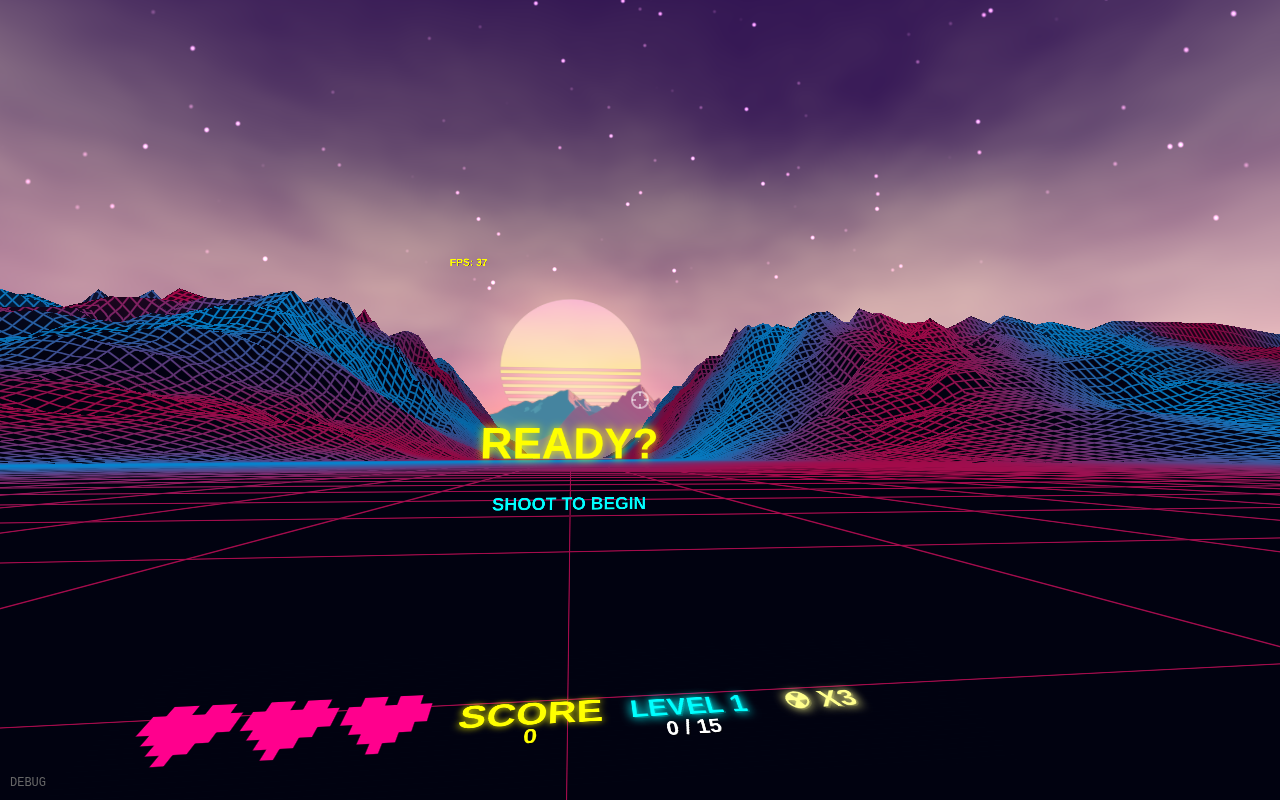
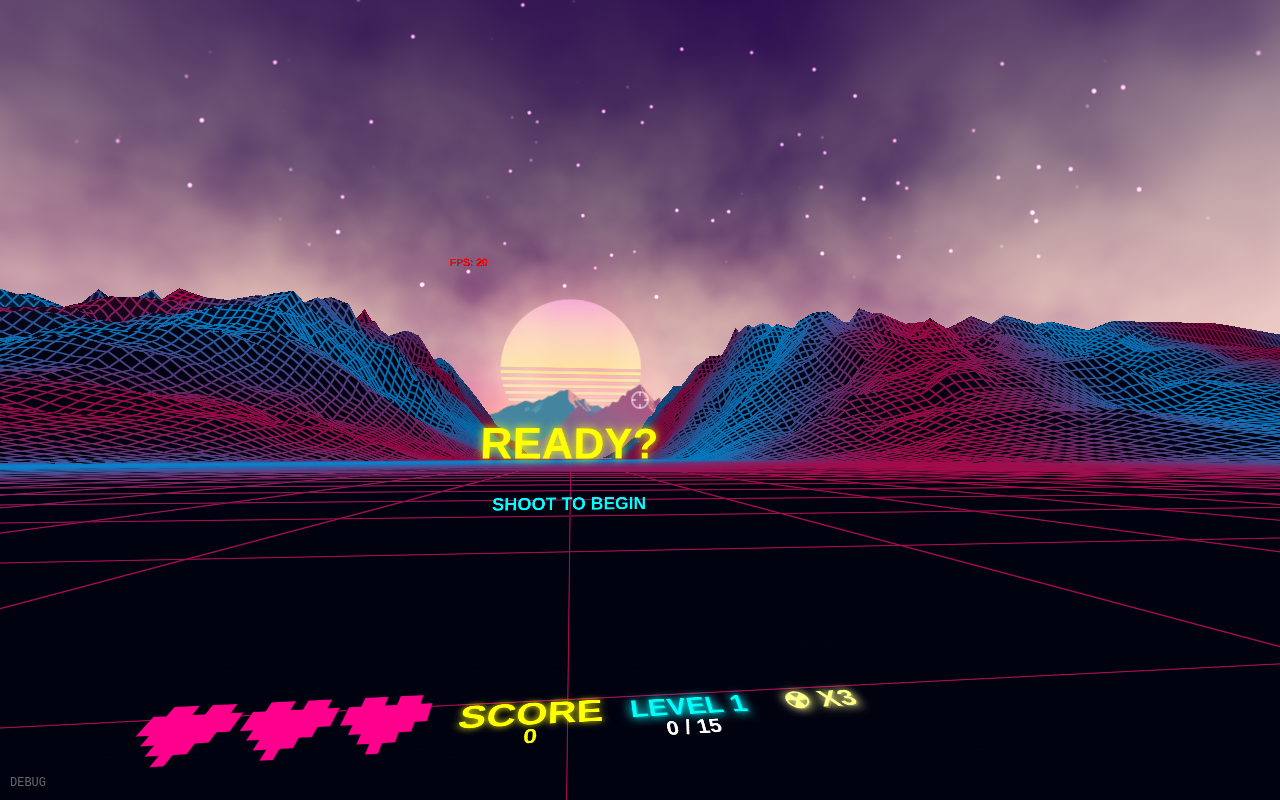
fix: 10-bug batch - version bump, enemy explosions, seeker facing, hellscape Z-fix, lava river, cloud seam, desert light, null guards

diff --git a/biomes/hellscape-lava.js b/biomes/hellscape-lava.js
@@ -98,9 +98,10 @@ varying vec3 vPosition; varying float vElevation; uniform float uTime;`);
 
   const terrain = new THREE.Mesh(geometry, material);
   terrain.receiveShadow = true;
+  terrain.frustumCulled = false; // Prevent disappearing when looking down
   terrain.position.y = floorY;
   terrain.position.x = -10.0;  // Shift terrain left so player spawns on riverbank (not riverbed)
-  terrain.position.z = 0.0;  // Player on flat valley floor
+  terrain.position.z = -50.0;  // Shift forward so content is in front of player (negative Z)
   group.add(terrain);
 
   // ========================================
@@ -109,6 +110,7 @@ varying vec3 vPosition; varying float vElevation; uniform float uTime;`);
   const riverWidth = 12;
   const riverLength = 200;
   const riverGeo = new THREE.PlaneGeometry(riverWidth, riverLength, 32, 64);
+  riverGeo.frustumCulled = false; // Prevent culling before mesh creation
   riverGeo.rotateX(-Math.PI / 2);
 
   // Curve the plane to follow the river path
@@ -116,9 +118,9 @@ varying vec3 vPosition; varying float vElevation; uniform float uTime;`);
   for (let i = 0; i < riverPositions.count; i++) {
     const localX = riverPositions.getX(i);
     const localZ = riverPositions.getZ(i);
-    // River follows sin(z * 0.03) * 15 + 10
+    // River follows sin(z * 0.03) * 15 - 10 (matches terrain offset of -10)
     const worldZ = localZ;
-    const riverCenterX = Math.sin(worldZ * 0.03) * 15.0 + 10.0;
+    const riverCenterX = Math.sin(worldZ * 0.03) * 15.0 - 10.0;
     riverPositions.setX(i, localX + riverCenterX);
   }
 
@@ -173,13 +175,15 @@ varying vec3 vPosition; varying float vElevation; uniform float uTime;`);
 
   const lavaRiver = new THREE.Mesh(riverGeo, lavaRiverMat);
   lavaRiver.position.y = floorY + 0.1; // Just above the river bed
+  lavaRiver.position.z = -50.0; // Match terrain Z offset
+  lavaRiver.frustumCulled = false; // Prevent disappearing when looking down
   group.add(lavaRiver);
 
   // Add subtle red point lights along the river for glow effect
   const lavaLights = [];
   for (let i = 0; i < 3; i++) {
-    const lz = (i - 1) * 60;
-    const lx = Math.sin(lz * 0.03) * 15.0 + 10.0;
+    const lz = (i - 1) * 60 - 50; // Shift to negative Z range
+    const lx = Math.sin(lz * 0.03) * 15.0 - 10.0; // Match terrain world-space river center
     const lavaLight = new THREE.PointLight(0xff3300, 2.0, 35);
     lavaLight.position.set(lx, floorY + 3, lz);
     group.add(lavaLight);
@@ -221,7 +225,7 @@ varying vec3 vPosition; varying float vElevation; uniform float uTime;`);
         }
       });
       // Base scale correction for Blender export (models often export large)
-      model.scale.setScalar(0.05);  // Reduced from 0.5 - GLB models are very large
+      model.scale.setScalar(0.015);  // Reduced from 0.03 - trees were still too big (~50% smaller)
       model.updateMatrixWorld(true);
 
       for (let i = 0; i < count; i++) {
@@ -238,12 +242,12 @@ varying vec3 vPosition; varying float vElevation; uniform float uTime;`);
             // 1-2 behind for VR folks who turn around
             z = Math.abs((Math.random() - 0.5) * 60);
           }
-          riverX = Math.sin(z * 0.03) * 15.0;
+          riverX = Math.sin(z * 0.03) * 15.0 - 10.0; // Match terrain world-space river center
           distToRiver = Math.abs(x - riverX);
           attempts++;
         } while ((distToRiver < 8 || (x * x + z * z < 225)) && attempts < 30);  // 225 = 15^2 clearance
 
-        const scale = 1.0 + Math.random() * 0.8; // 1.0x to 1.8x (on top of base 0.5x)
+        const scale = 0.5 + Math.random() * 0.9; // 0.5x to 1.4x (on top of base 0.015x = 0.0075x to 0.021x effective)
         clone.position.set(x, floorY - 0.3, z); // Bury roots slightly below ground
         clone.rotation.set(
           (Math.random() - 0.5) * 0.2, // slight X tilt
@@ -343,8 +347,8 @@ varying vec3 vPosition; varying float vElevation; uniform float uTime;`);
 
   const initSpark = (idx) => {
     const i3 = idx * 3;
-    const z = (Math.random() - 0.5) * 100;
-    const riverX = Math.sin(z * 0.03) * 15.0 + 10.0;  // Account for terrain X shift
+    const z = (Math.random() - 0.5) * 100 - 50; // Bias toward negative Z (in front of player)
+    const riverX = Math.sin(z * 0.03) * 15.0 - 10.0;  // Match terrain world-space river center (sin - terrain.x = sin*15 - 10)
     sparkPositions[i3] = riverX + (Math.random() - 0.5) * 4;
     sparkPositions[i3 + 1] = floorY - 0.5 + Math.random() * 0.5;  // Account for terrain Y offset
     sparkPositions[i3 + 2] = z;
@@ -385,7 +389,7 @@ varying vec3 vPosition; varying float vElevation; uniform float uTime;`);
     const i3 = i * 3;
     ashPositions[i3] = (Math.random() - 0.5) * 80;
     ashPositions[i3 + 1] = 1 + Math.random() * 10;
-    ashPositions[i3 + 2] = (Math.random() - 0.5) * 80;
+    ashPositions[i3 + 2] = (Math.random() - 0.5) * 80 - 50; // Shift to negative Z range
     ashVelocities[i3] = (Math.random() - 0.5) * 0.02;
     ashVelocities[i3 + 1] = 0.01 + Math.random() * 0.015;
     ashVelocities[i3 + 2] = (Math.random() - 0.5) * 0.02;
@@ -413,8 +417,9 @@ varying vec3 vPosition; varying float vElevation; uniform float uTime;`);
     const particleCount = 100;
     // Spawn from mountainsides (outside valleyWidth), accounting for terrain X shift
     const side = Math.random() > 0.5 ? 1 : -1;
-    const x = side * (valleyWidth + 5 + Math.random() * 20) + 10.0;  // Account for terrain X shift
-    const z = -Math.abs((Math.random() - 0.5) * 80);  // Force negative Z (in front)
+    // Mountainsides in group space (terrain.position.x = -10 shifts terrain)
+    const x = side * (valleyWidth + 5 + Math.random() * 20) - 10.0;
+    const z = -50 - Math.abs((Math.random() - 0.5) * 80);  // Negative Z, offset by terrain Z shift
     const baseY = floorY + 5;
 
     for (let i = 0; i < particleCount; i++) {
@@ -717,8 +722,8 @@ varying vec3 vPosition; varying float vElevation; uniform float uTime;`);
   };
 
   // Hellscape floor HUD height: group.position.y = 0.05
-  // Shifted +Z by 130 so corridor is in front of player
-  group.position.set(26.599, 0.05, 129.514);
+  // Shifted -Z so corridor is in front of player (player looks down -Z)
+  group.position.set(26.599, 0.05, -130.0);
   group.rotation.y = 0.248; // yaw: 14.21°
 }
 

diff --git a/biomes/synthwave-valley.js b/biomes/synthwave-valley.js
@@ -225,31 +225,37 @@ export function buildSynthwaveValleyScene(group, deps) {
     uniform vec3 uSkyColor;
     uniform vec3 uHorizonColor;
 
-    // Hash and noise functions for FBM
-    vec2 hash2(vec2 p) {
-      p = vec2(dot(p, vec2(127.1, 311.7)), dot(p, vec2(269.5, 183.3)));
+    // 3D hash and noise for seamless spherical cloud sampling
+    vec3 hash3(vec3 p) {
+      p = vec3(dot(p, vec3(127.1, 311.7, 74.7)),
+               dot(p, vec3(269.5, 183.3, 246.1)),
+               dot(p, vec3(113.5, 271.9, 124.6)));
       return -1.0 + 2.0 * fract(sin(p) * 43758.5453123);
     }
 
-    float noise(vec2 p) {
-      vec2 i = floor(p);
-      vec2 f = fract(p);
-      vec2 u = f * f * (3.0 - 2.0 * f);
+    float noise3D(vec3 p) {
+      vec3 i = floor(p);
+      vec3 f = fract(p);
+      vec3 u = f * f * (3.0 - 2.0 * f);
       return mix(
-        mix(dot(hash2(i + vec2(0.0, 0.0)), f - vec2(0.0, 0.0)),
-            dot(hash2(i + vec2(1.0, 0.0)), f - vec2(1.0, 0.0)), u.x),
-        mix(dot(hash2(i + vec2(0.0, 1.0)), f - vec2(0.0, 1.0)),
-            dot(hash2(i + vec2(1.0, 1.0)), f - vec2(1.0, 1.0)), u.x),
-        u.y
+        mix(mix(dot(hash3(i), f),
+                dot(hash3(i + vec3(1,0,0)), f - vec3(1,0,0)), u.x),
+            mix(dot(hash3(i + vec3(0,1,0)), f - vec3(0,1,0)),
+                dot(hash3(i + vec3(1,1,0)), f - vec3(1,1,0)), u.x), u.y),
+        mix(mix(dot(hash3(i + vec3(0,0,1)), f - vec3(0,0,1)),
+                dot(hash3(i + vec3(1,0,1)), f - vec3(1,0,1)), u.x),
+            mix(dot(hash3(i + vec3(0,1,1)), f - vec3(0,1,1)),
+                dot(hash3(i + vec3(1,1,1)), f - vec3(1,1,1)), u.x), u.y),
+        u.z
       );
     }
 
-    // 4-layer FBM (cheap, no raymarching)
-    float fbm(vec2 p) {
+    // 4-layer FBM with 3D noise (seamless on sphere)
+    float fbm3(vec3 p) {
       float value = 0.0;
       float amp = 0.5;
       for (int i = 0; i < 4; i++) {
-        value += amp * noise(p);
+        value += amp * noise3D(p);
         p *= 2.0;
         amp *= 0.5;
       }
@@ -257,22 +263,18 @@ export function buildSynthwaveValleyScene(group, deps) {
     }
 
     void main() {
-      // Spherical to lat/lon for cloud sampling
-      vec3 n = normalize(vWorldPos);
-      // FIX: Use proper spherical coordinates relative to dome center
-      // The dome is centered at (0, 0, -700), so offset the position
+      // Sample cloud noise directly on sphere normal (3D) - no seam possible
       vec3 relPos = vWorldPos - vec3(0.0, 0.0, -700.0);
-      n = normalize(relPos);
+      vec3 n = normalize(relPos);
       
       float lat = asin(n.y);  // -PI/2 to PI/2
-      float lon = atan(n.z, n.x);
 
-      // Very slow drift animation
-      vec2 cloudUV = vec2(lon * 0.8, lat * 1.5) + vec2(uTime * 0.008, 0.0);
+      // 3D noise using sphere direction directly - inherently seamless
+      vec3 cloudP = n * 2.0 + vec3(uTime * 0.008, 0.0, 0.0);
 
       // Layered FBM noise for cloud density
-      float n1 = fbm(cloudUV * 1.0);
-      float n2 = fbm(cloudUV * 2.5 + 10.0);
+      float n1 = fbm3(cloudP);
+      float n2 = fbm3(cloudP * 2.5 + vec3(10.0, 5.0, 3.0));
       float density = n1 * 0.6 + n2 * 0.4;
 
       // FIX: FBM returns [-1, 1], remap to [0, 1] so smoothstep works correctly

diff --git a/biomes/desert-night.js b/biomes/desert-night.js
@@ -20,7 +20,7 @@ export function buildDesertNightScene(group, deps) {
   group.add(moonLight);
 
   // Point light for long moon-like shadows from cacti
-  const shadowLight = new THREE.PointLight(0xd4e5f7, 1.5, 100);
+  const shadowLight = new THREE.PointLight(0xd4e5f7, 4.0, 100);
   shadowLight.position.set(-45, 35, -60); // Same as moon position
   shadowLight.castShadow = true;
   shadowLight.shadow.mapSize.width = 1024;
@@ -38,7 +38,7 @@ export function buildDesertNightScene(group, deps) {
   group.add(hemiLight);
 
   // Front-fill light so cacti in front of player are visible as green
-  const frontFillLight = new THREE.PointLight(0xd4e5f7, 1.0, 40);
+  const frontFillLight = new THREE.PointLight(0xd4e5f7, 5.0, 50);
   frontFillLight.position.set(0, 8, -15);
   group.add(frontFillLight);
 

diff --git a/main.js b/main.js
@@ -2108,7 +2108,9 @@ function applyEnvironmentFade(fade) {
 
   if (scene && currentTheme) {
     const bg = new THREE.Color(currentTheme.skyColor).lerp(mixColor, environmentFade);
-    scene.background.copy(bg);
+    if (scene.background && scene.background.copy) {
+      scene.background.copy(bg);
+    }
   }
 
   environmentFadeTargets.forEach((material) => {
@@ -7484,6 +7486,10 @@ function completeLevel() {
   const remaining = getEnemies();
   for (let i = remaining.length - 1; i >= 0; i--) {
     if (remaining[i] && remaining[i].hp > 0) {
+      // Spawn visual explosion before destroying
+      if (remaining[i].mesh && remaining[i].mesh.position) {
+        spawnExplosionVisual(remaining[i].mesh.position, 0.5);
+      }
       destroyEnemy(i, false, false);
     }
   }

diff --git a/index.html b/index.html
@@ -249,7 +249,7 @@
   <script type="module" src="main.js"></script>
   <script>
     (function() {
-      const GAME_VERSION = 'v2026.04.03.0004';
+      const GAME_VERSION = 'v2026.04.05.1142';
       document.title = GAME_VERSION;
       const versionEl = document.getElementById('version-text');
       if (versionEl) versionEl.textContent = GAME_VERSION;

diff --git a/desktop-controls.js b/desktop-controls.js
@@ -886,6 +886,7 @@ function applyHighlight(obj) {
  */
 function clearHighlight(obj) {
   if (!obj) return;
+  if (!obj.material) return;
 
   const original = originalMaterials.get(obj);
   if (original) {
